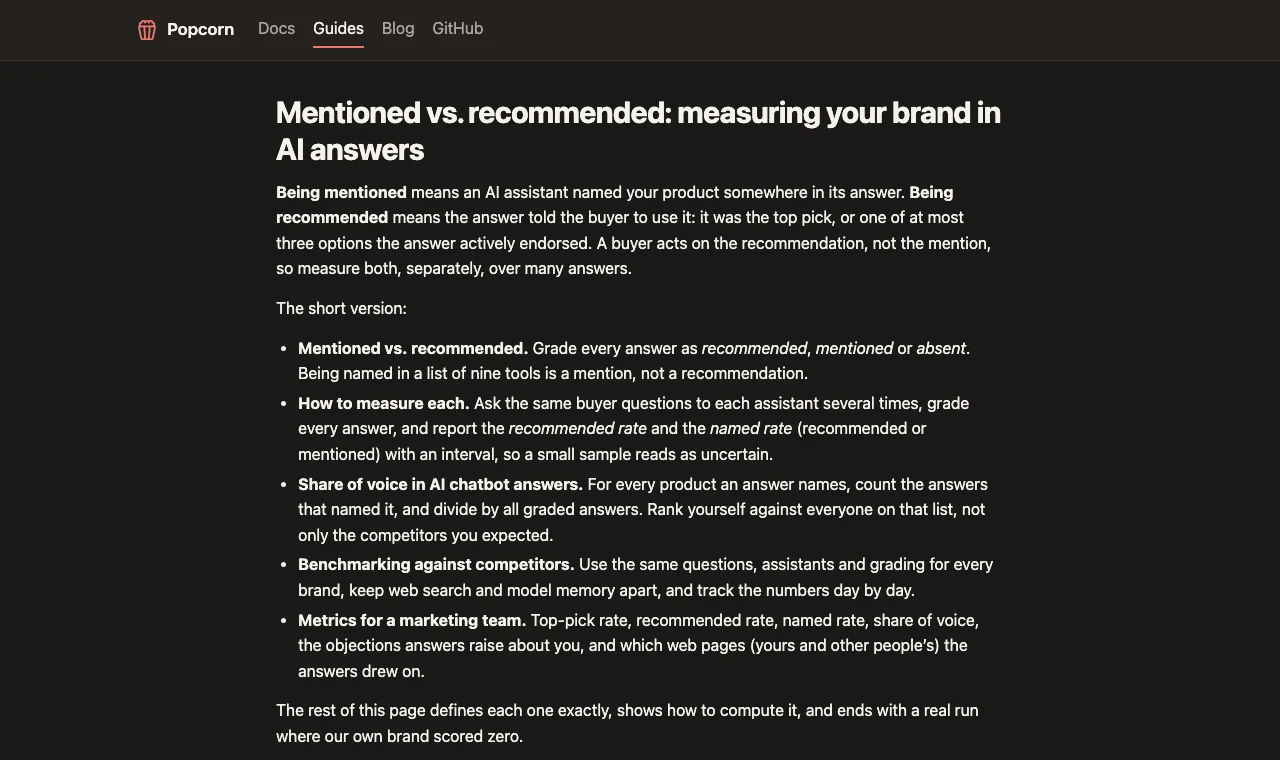
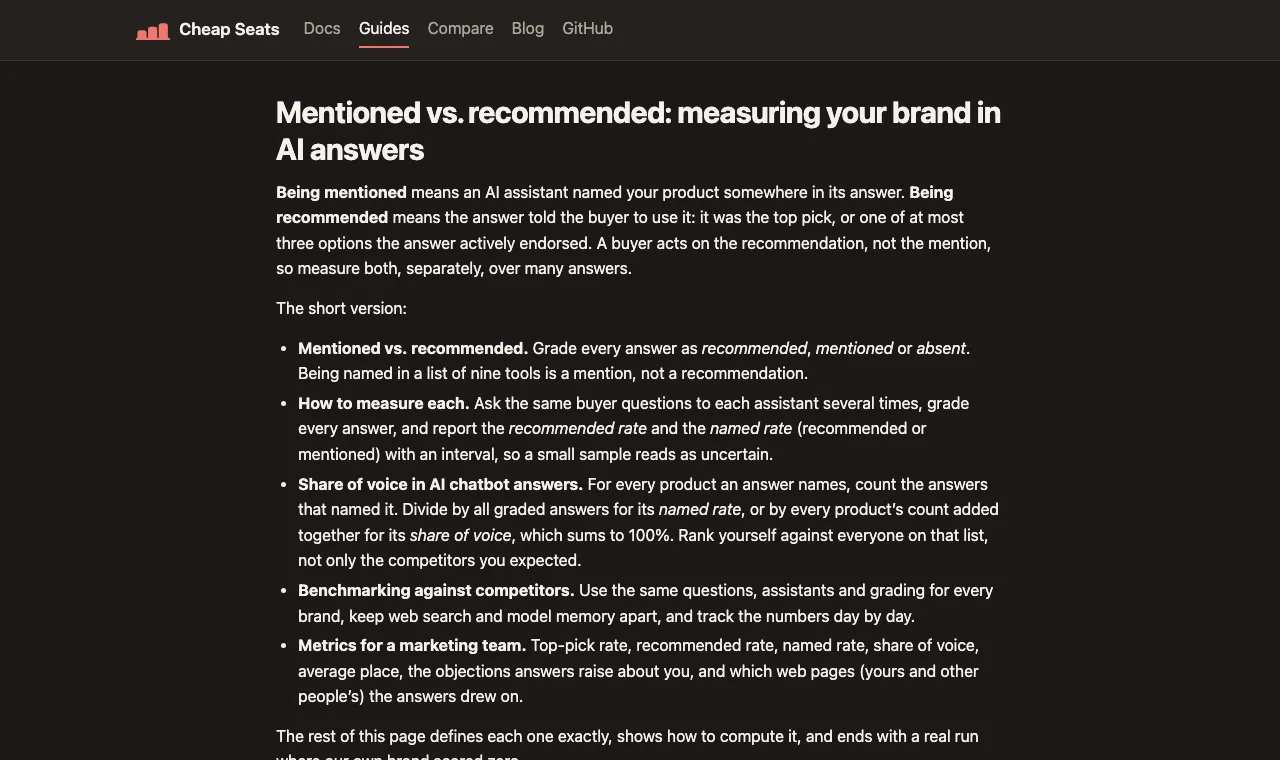
Retake the guide screenshot under the new name
The mentioned-vs-recommended guide as cheapseats.dev serves it now. The fix walkthrough's quick
wins screenshot is from 21 October and says so.

Changed region(s): [[0.2188, 0.6658, 0.7812, 1.0], [0.0938, 0.0303, 0.4688, 0.0605]]

diff --git a/content/docs/fix-to-pull-request.md b/content/docs/fix-to-pull-request.md
@@ -8,7 +8,7 @@ Every run ends with a fix list, and [quick wins](../reading-results/#quick-wins)
 
 ## 1. Pick a fix
 
-{{< screenshot name="quickwin" alt="The quick wins page with one fix expanded: where it goes, what it must say, when it's done, which page it displaces, and why." caption="Quick wins on cheapseats.dev's dashboard, with the second fix expanded." >}}
+{{< screenshot name="quickwin" alt="The quick wins page with one fix expanded: where it goes, what it must say, when it's done, which page it displaces, and why." caption="Quick wins on our own dashboard on 21 October, with the second fix expanded. Cheap Seats was still called Popcorn then." >}}
 
 Start from the top of quick wins, or filter by site to get the fixes your team owns. Each fix says:
 
